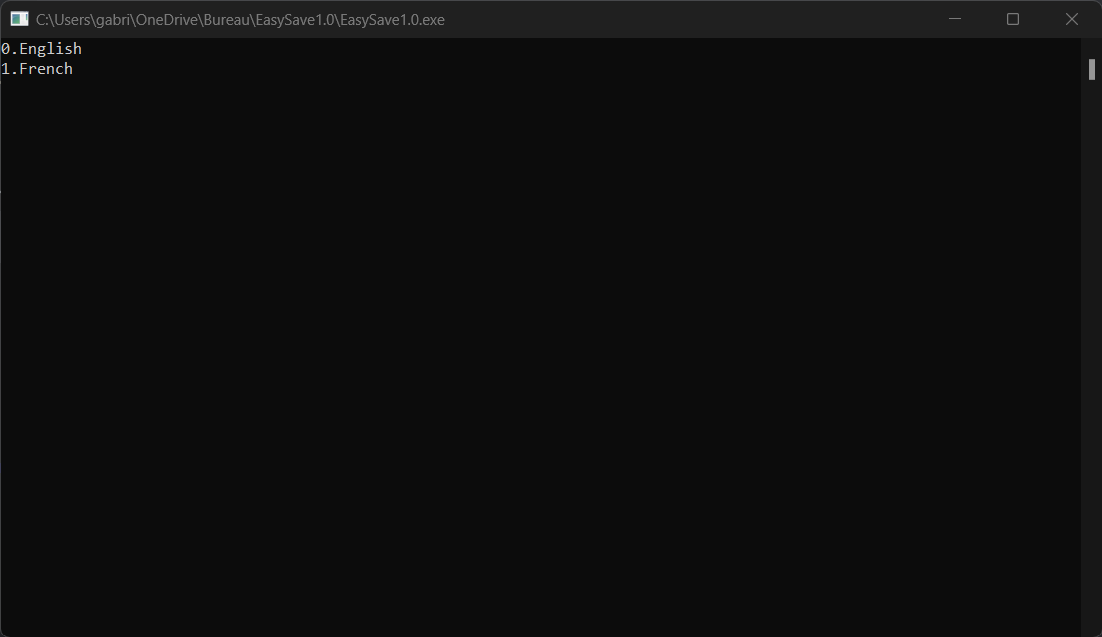
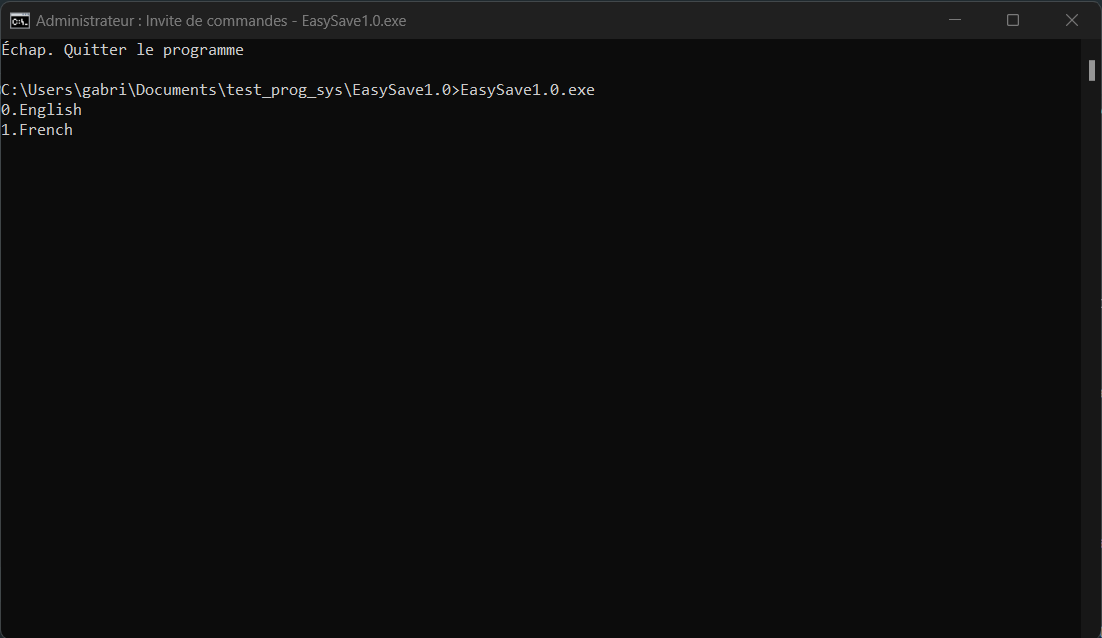
adding contents to README.md

Changed region(s): [[0.0, 0.0, 1.0, 0.2088], [0.9873, 0.9843, 1.0, 1.0]]

diff --git a/README.md b/README.md
@@ -19,11 +19,40 @@ To install EasySave, you just have to download the .zip file and extract it. The
 ## Starting
 To start EasySave, you just have to launch the .exe file. You can also launch it with the command line. To do this, you have to open the command line and enter the path of the .exe file. For example : `C:\Users\user\Downloads\EasySave1.0.exe`
 
+![menu screen](./Pictures/starting_command.png "Menu Screen display the starting command")
 
+## Langage choice
+When you installed and launch EasySave software, a black screen "Command prompt" appears. It asks you to choose a langage.
+
+![menu screen](./Pictures/langage.png "Menu Screen display the langage choice")
 ## Mode
 When you installed and launch EasySave software, a black screen "Command prompt" appears. It asks you to choose a mode. 
-There is three available modes : Backup, Restore and Exit.
+There is five available modes : "Add a job", "Delete a job", "Display a job", "Modify a job", "Execute job(s)".
+You just have to type the name of the mode you want to use.
 
-## Backup mode
-In this mode, you can choose the files you want to save, the destination folder and the type of compression you want to use. You can also choose to encrypt your files with a password.
-To choose the files you want to save, you have to enter the path of the file. You can enter multiple paths. To stop entering paths, you have to enter "stop".
+![menu screen](./Pictures/mode.png "Menu Screen display the menu")
+
+### Add a job
+
+![menu screen](./Pictures/add_job.png "Menu Screen display the add job")
+
+### Display a job
+
+![menu screen](./Pictures/show_job.png "Menu Screen display the display job")
+
+### Execute a job
+To execute a job, you have to type five, then the software asks the range of jobs to execute.
+You can launch one or several backups with the following commands:
+
+    5 : Launch the backup 5
+    1;2;3 : Launch the backups 1, 2 and 3
+    1-4 : Launch the backups from 1 to 4
+    1-4;6;8-10 : Launch the backups from 1 to 4, 6 and from 8 to 10
+
+You can also call the program in the command prompt with the following command: 
+        
+`EasySave1.0.exe -e 1;3-5`
+
+
+![menu screen](./Pictures/job_execution.png "Menu Screen display the delete job")
+
